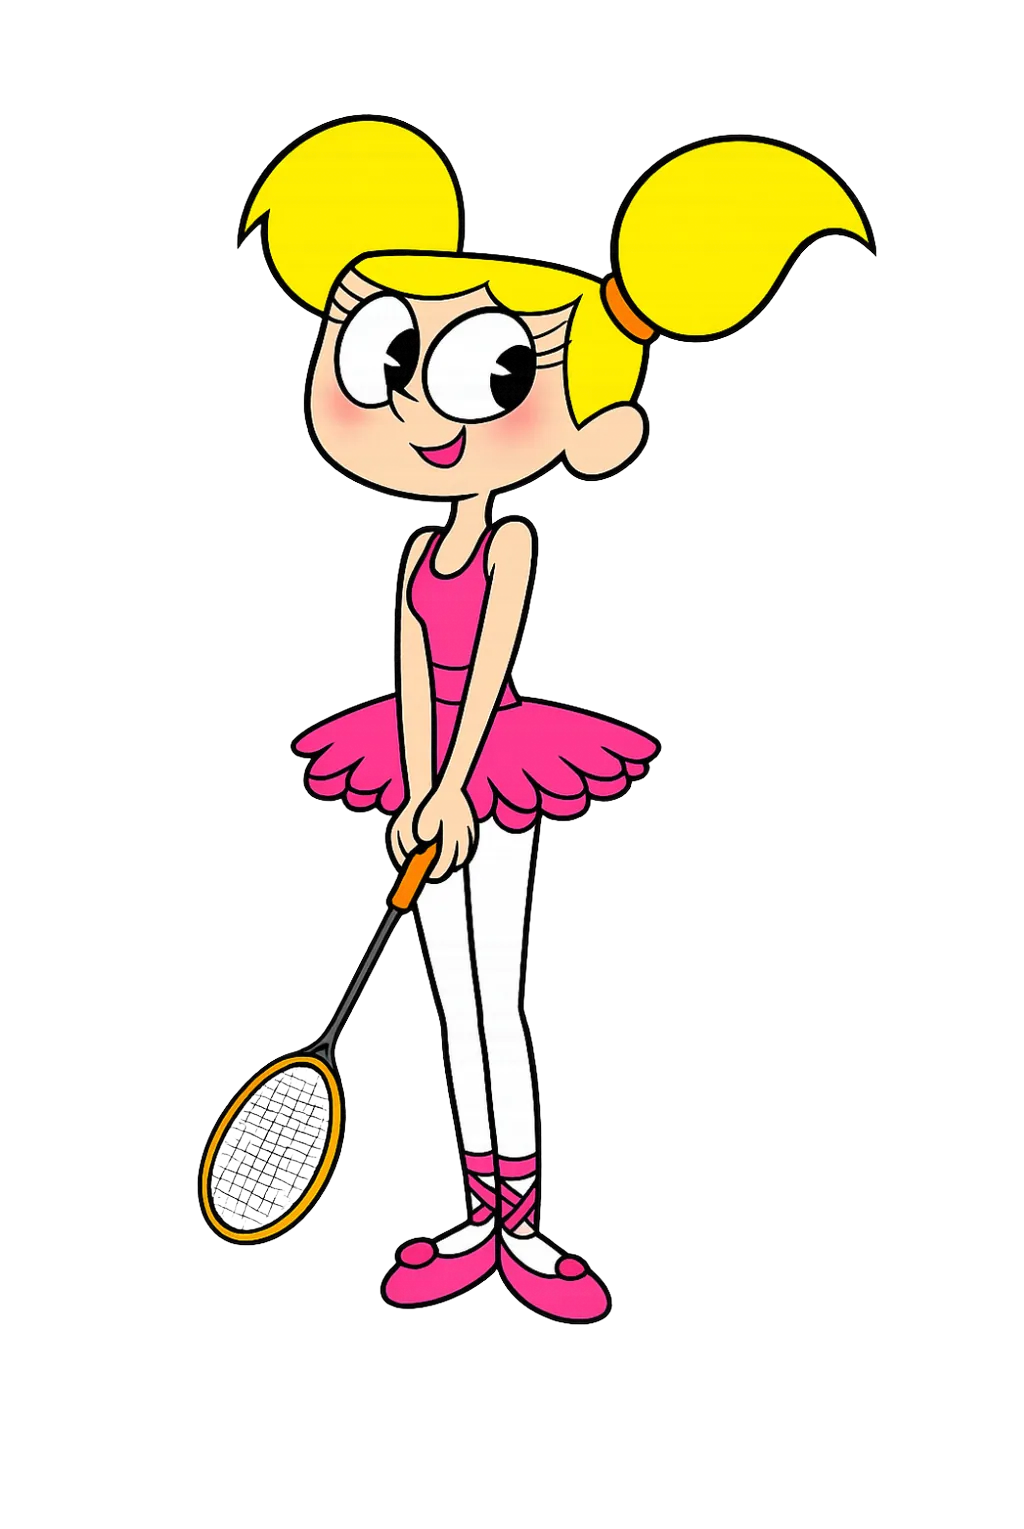
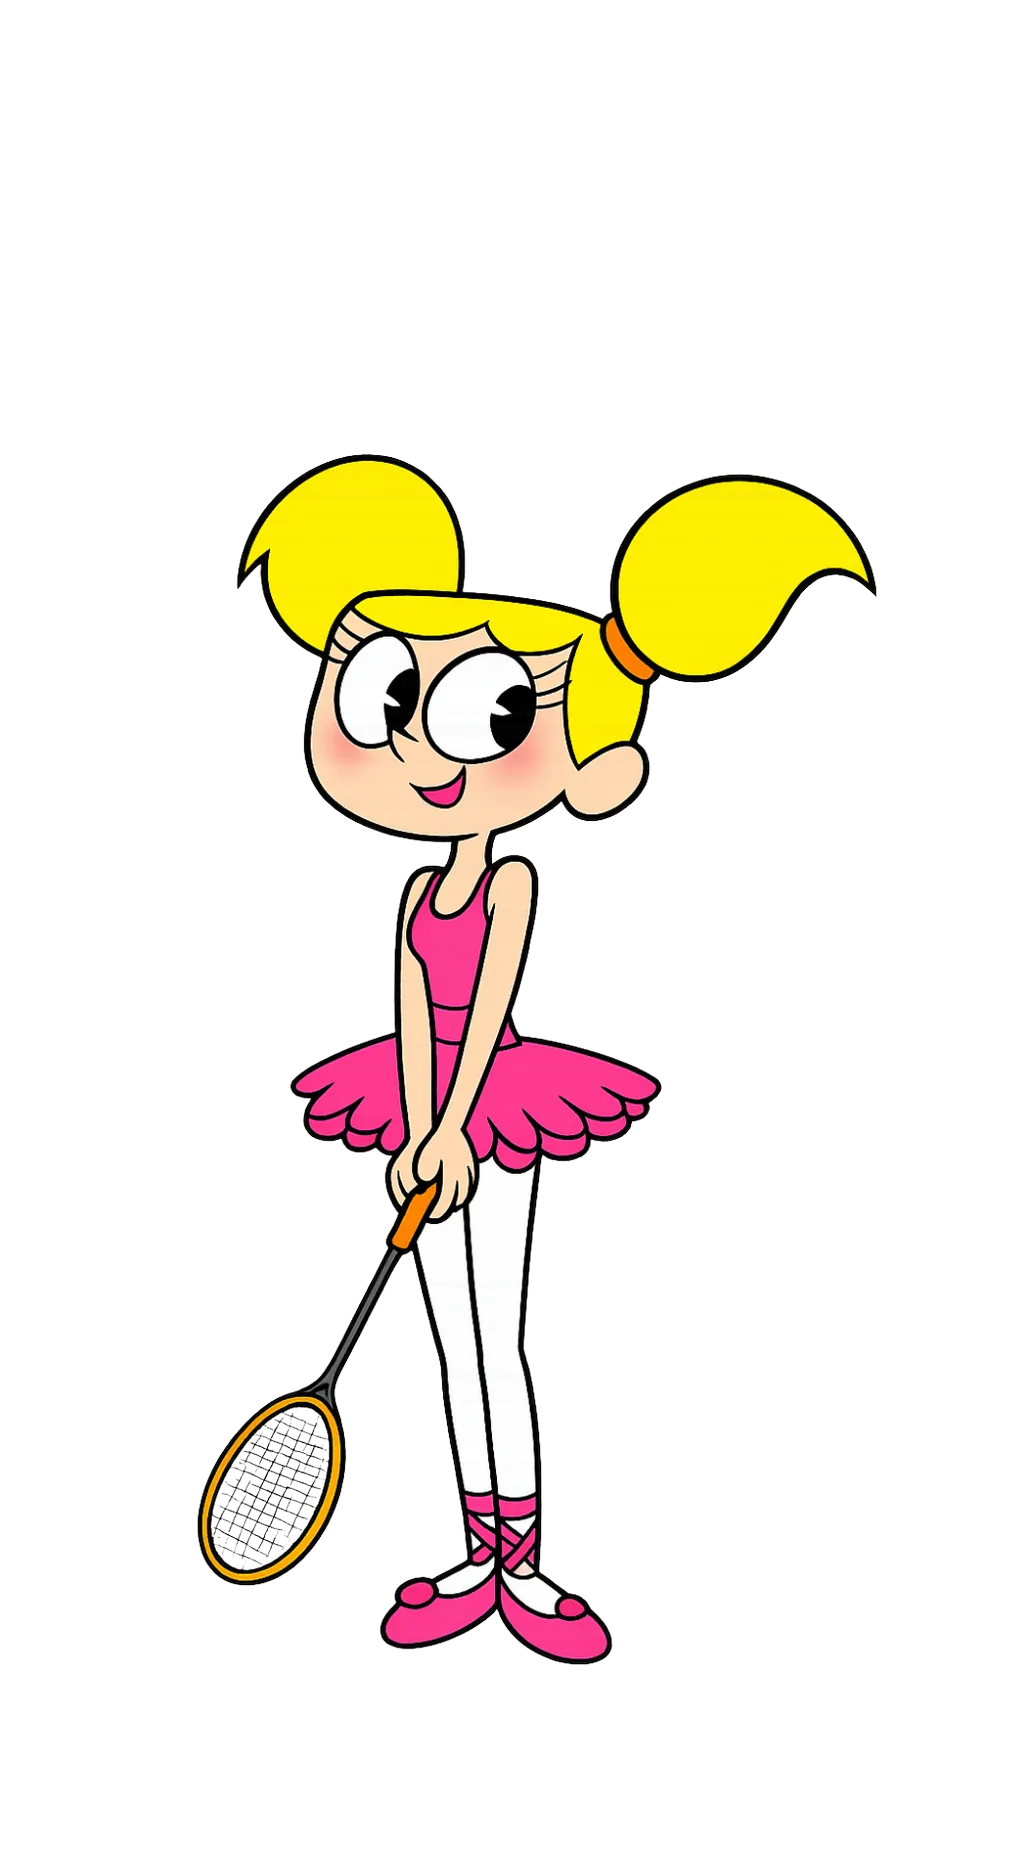
Mniejsze postacie w grze i Johnny zwrocony do siatki
Z podgladu na telefonie: postacie wypelnialy prawie cala plansze, uniesione
rakietki ucinala gorna krawedz, a Johnny stal tylem do siatki.

- sprite'y do gry dostaly kadr wyzszy o 340 px. Powiekszenie do wielkosci
  wzorca wypychalo uniesiona rakietke ponad plotno i czubek byl obcinany
  juz na etapie konwersji, wiec samo zmniejszenie postaci by nie wystarczylo
- sylwetka zajmuje teraz 53% wysokosci pola zamiast okolo 75%
- Johnny odbity w poziomie. Oba rendery przedstawiaja postac zwrocona w lewo,
  co pasuje Dee Dee grajacej po prawej, ale jego stawialo tylem
- linia odbicia liczona z szerokosci postaci, zeby pasek zasiegu wypadal przy
  rakietce, a nie w poprzek tulowia

Linia stop obu klatek zgadza sie co do piksela, wiec przy zmianie stanu rusza
sie tylko reka. Mecz sprawdzony w obie strony: 5:0 przy dobrej grze i 0:5 przy
ciaglym pudlowaniu.

Changed region(s): [[0.1875, 0.0615, 0.8438, 0.8914], [0.8438, 0.3074, 0.875, 0.3381], [0.8438, 0.1537, 0.875, 0.1844]]

diff --git a/game.js b/game.js
@@ -8,13 +8,17 @@
     const PADDLE_H = 0.44;
     const PADDLE_UP = 0.27;        // srodek rakietki w gornym stanie
     const PADDLE_DOWN = 0.73;
-    const PADDLE_X = 0.13;
+    const PADDLE_X_MIN = 0.12;
+    const PADDLE_X_MAX = 0.3;
     const BALL_R = 0.018;
     const START_SPEED = 0.011;
     const SPEED_STEP = 0.0006;
     const MAX_SPEED = 0.024;
     const CPU_MISTAKE = 0.14;      // szansa, ze Dee Dee wybierze zla polowe
-    const CHAR_HEIGHT = 0.98;      // wysokosc postaci wzgledem pola
+    // Wysokosc kadru sprite'a wzgledem pola. Sam kadr jest wyzszy niz postac,
+    // bo mieszcza sie w nim uniesione rakietki, wiec sylwetka zajmuje mniej
+    // niz ta wartosc.
+    const CHAR_HEIGHT = 0.8;
 
     const gameEl = document.getElementById("game");
     const canvas = document.getElementById("game-canvas");
@@ -45,6 +49,11 @@
     let W = 0;
     let H = 0;
 
+    // Linia odbicia. Liczona z szerokosci postaci, zeby wypadala przy jej
+    // rakietce, a nie w poprzek tulowia - przy stalej wartosci pasek zasiegu
+    // lezal na brzuchu.
+    let paddleX = PADDLE_X_MIN;
+
     const state = {
         ball: { x: 0.5, y: 0.5, vx: START_SPEED, vy: 0.004 },
         johny: { up: true, hit: 0 },
@@ -72,6 +81,11 @@
 
         W = cssWidth;
         H = cssHeight;
+
+        const sprite = sprites.johny.down;
+        const aspect = sprite.naturalWidth ? sprite.naturalWidth / sprite.naturalHeight : 0.55;
+        const charWidth = H * CHAR_HEIGHT * aspect;
+        paddleX = Math.min(PADDLE_X_MAX, Math.max(PADDLE_X_MIN, charWidth / W));
     }
 
     // ---------- rozgrywka ----------
@@ -152,18 +166,18 @@
             state.deedee.up = Math.random() < CPU_MISTAKE ? !shouldBeUp : shouldBeUp;
         }
 
-        if (ball.vx < 0 && ball.x - BALL_R <= PADDLE_X) {
+        if (ball.vx < 0 && ball.x - BALL_R <= paddleX) {
             if (paddleCovers(state.johny, ball.y)) {
-                ball.x = PADDLE_X + BALL_R;
+                ball.x = paddleX + BALL_R;
                 bounce(state.johny, ball.y);
             } else if (ball.x < -0.05) {
                 point("deedee");
             }
         }
 
-        if (ball.vx > 0 && ball.x + BALL_R >= 1 - PADDLE_X) {
+        if (ball.vx > 0 && ball.x + BALL_R >= 1 - paddleX) {
             if (paddleCovers(state.deedee, ball.y)) {
-                ball.x = 1 - PADDLE_X - BALL_R;
+                ball.x = 1 - paddleX - BALL_R;
                 bounce(state.deedee, ball.y);
             } else if (ball.x > 1.05) {
                 point("johny");
@@ -190,7 +204,18 @@
         // krotkie szarpniecie po odbiciu, w strone od ktorej przyszla pilka
         ctx.save();
         ctx.translate(player.hit * 10 * (side === "left" ? -1 : 1), 0);
-        ctx.drawImage(sprite, x, H - h, w, h);
+
+        // Obie postacie zostaly narysowane zwrocone w lewo. Dee Dee gra po
+        // prawej stronie, wiec patrzy na siatke i jest w porzadku, ale Johnny
+        // stalby do niej tylem - jego odbijamy.
+        if (side === "left") {
+            ctx.translate(x + w, 0);
+            ctx.scale(-1, 1);
+            ctx.drawImage(sprite, 0, H - h, w, h);
+        } else {
+            ctx.drawImage(sprite, x, H - h, w, h);
+        }
+
         ctx.restore();
     }
 
@@ -200,7 +225,7 @@
     function drawZone(player, side) {
         const pw = W * PADDLE_W;
         const ph = H * PADDLE_H;
-        const x = side === "left" ? W * PADDLE_X - pw : W * (1 - PADDLE_X);
+        const x = side === "left" ? W * paddleX - pw : W * (1 - paddleX);
         const cy = H * (player.up ? PADDLE_UP : PADDLE_DOWN);
 
         ctx.save();
